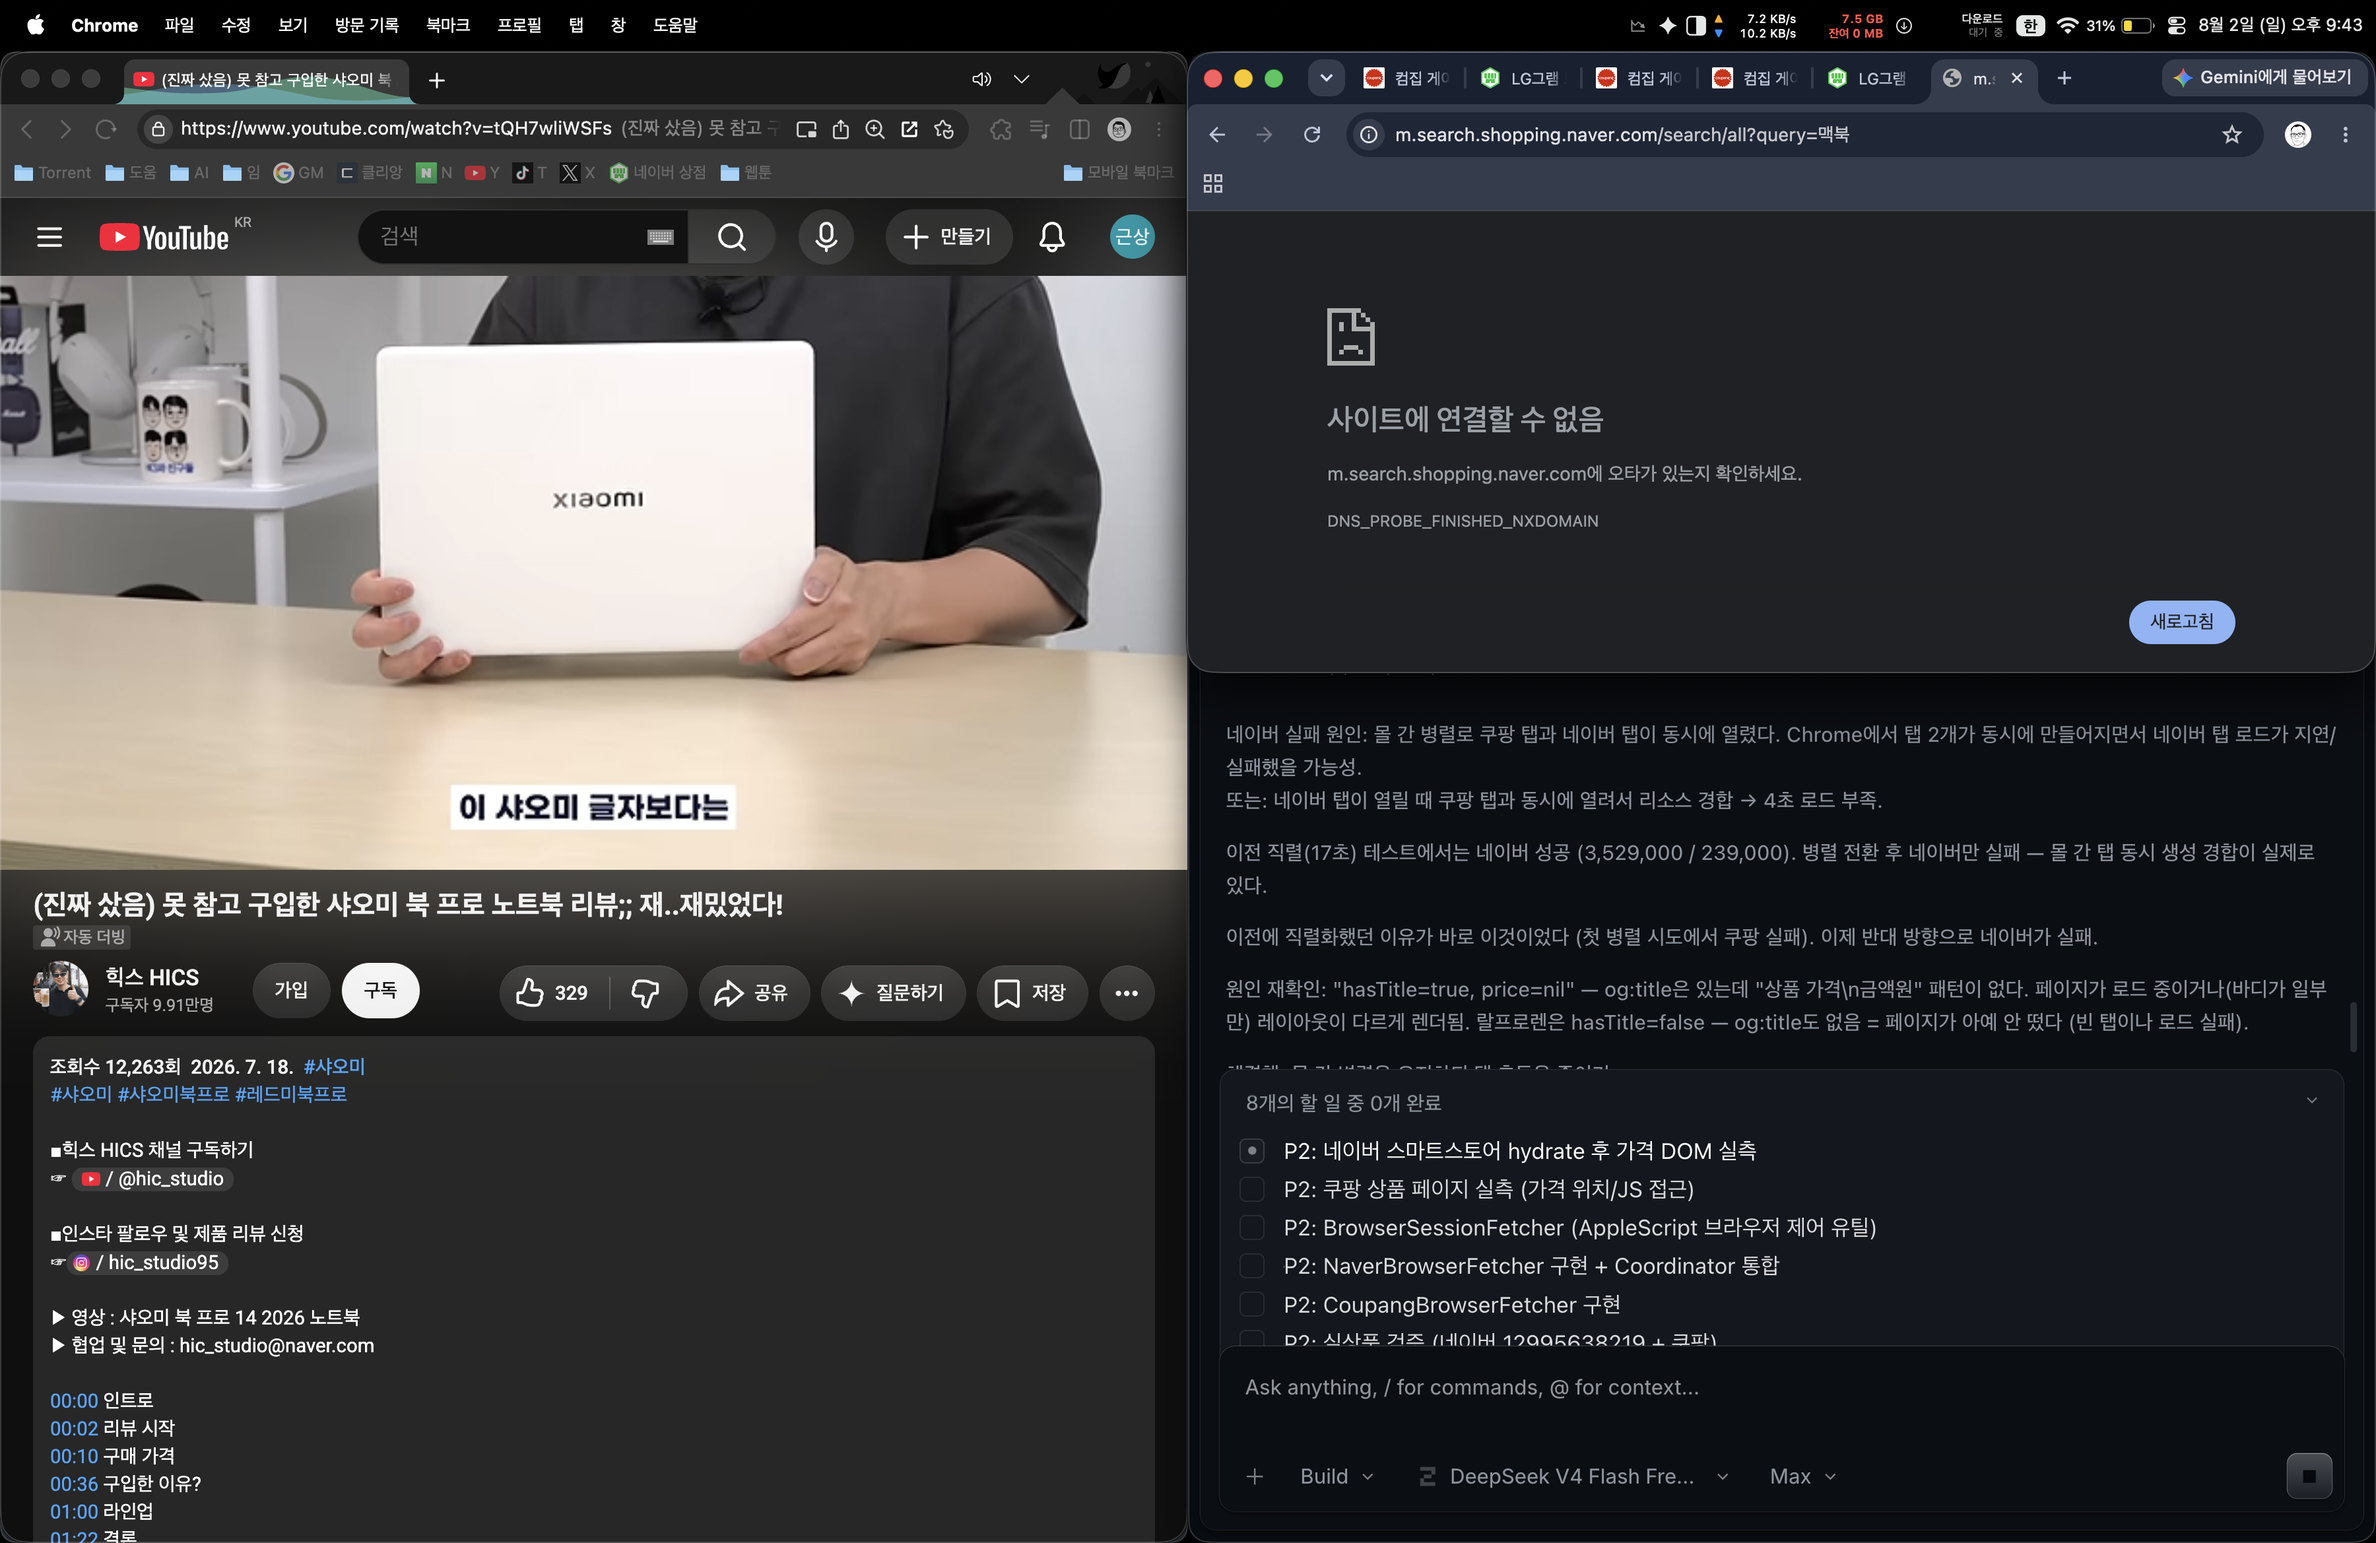
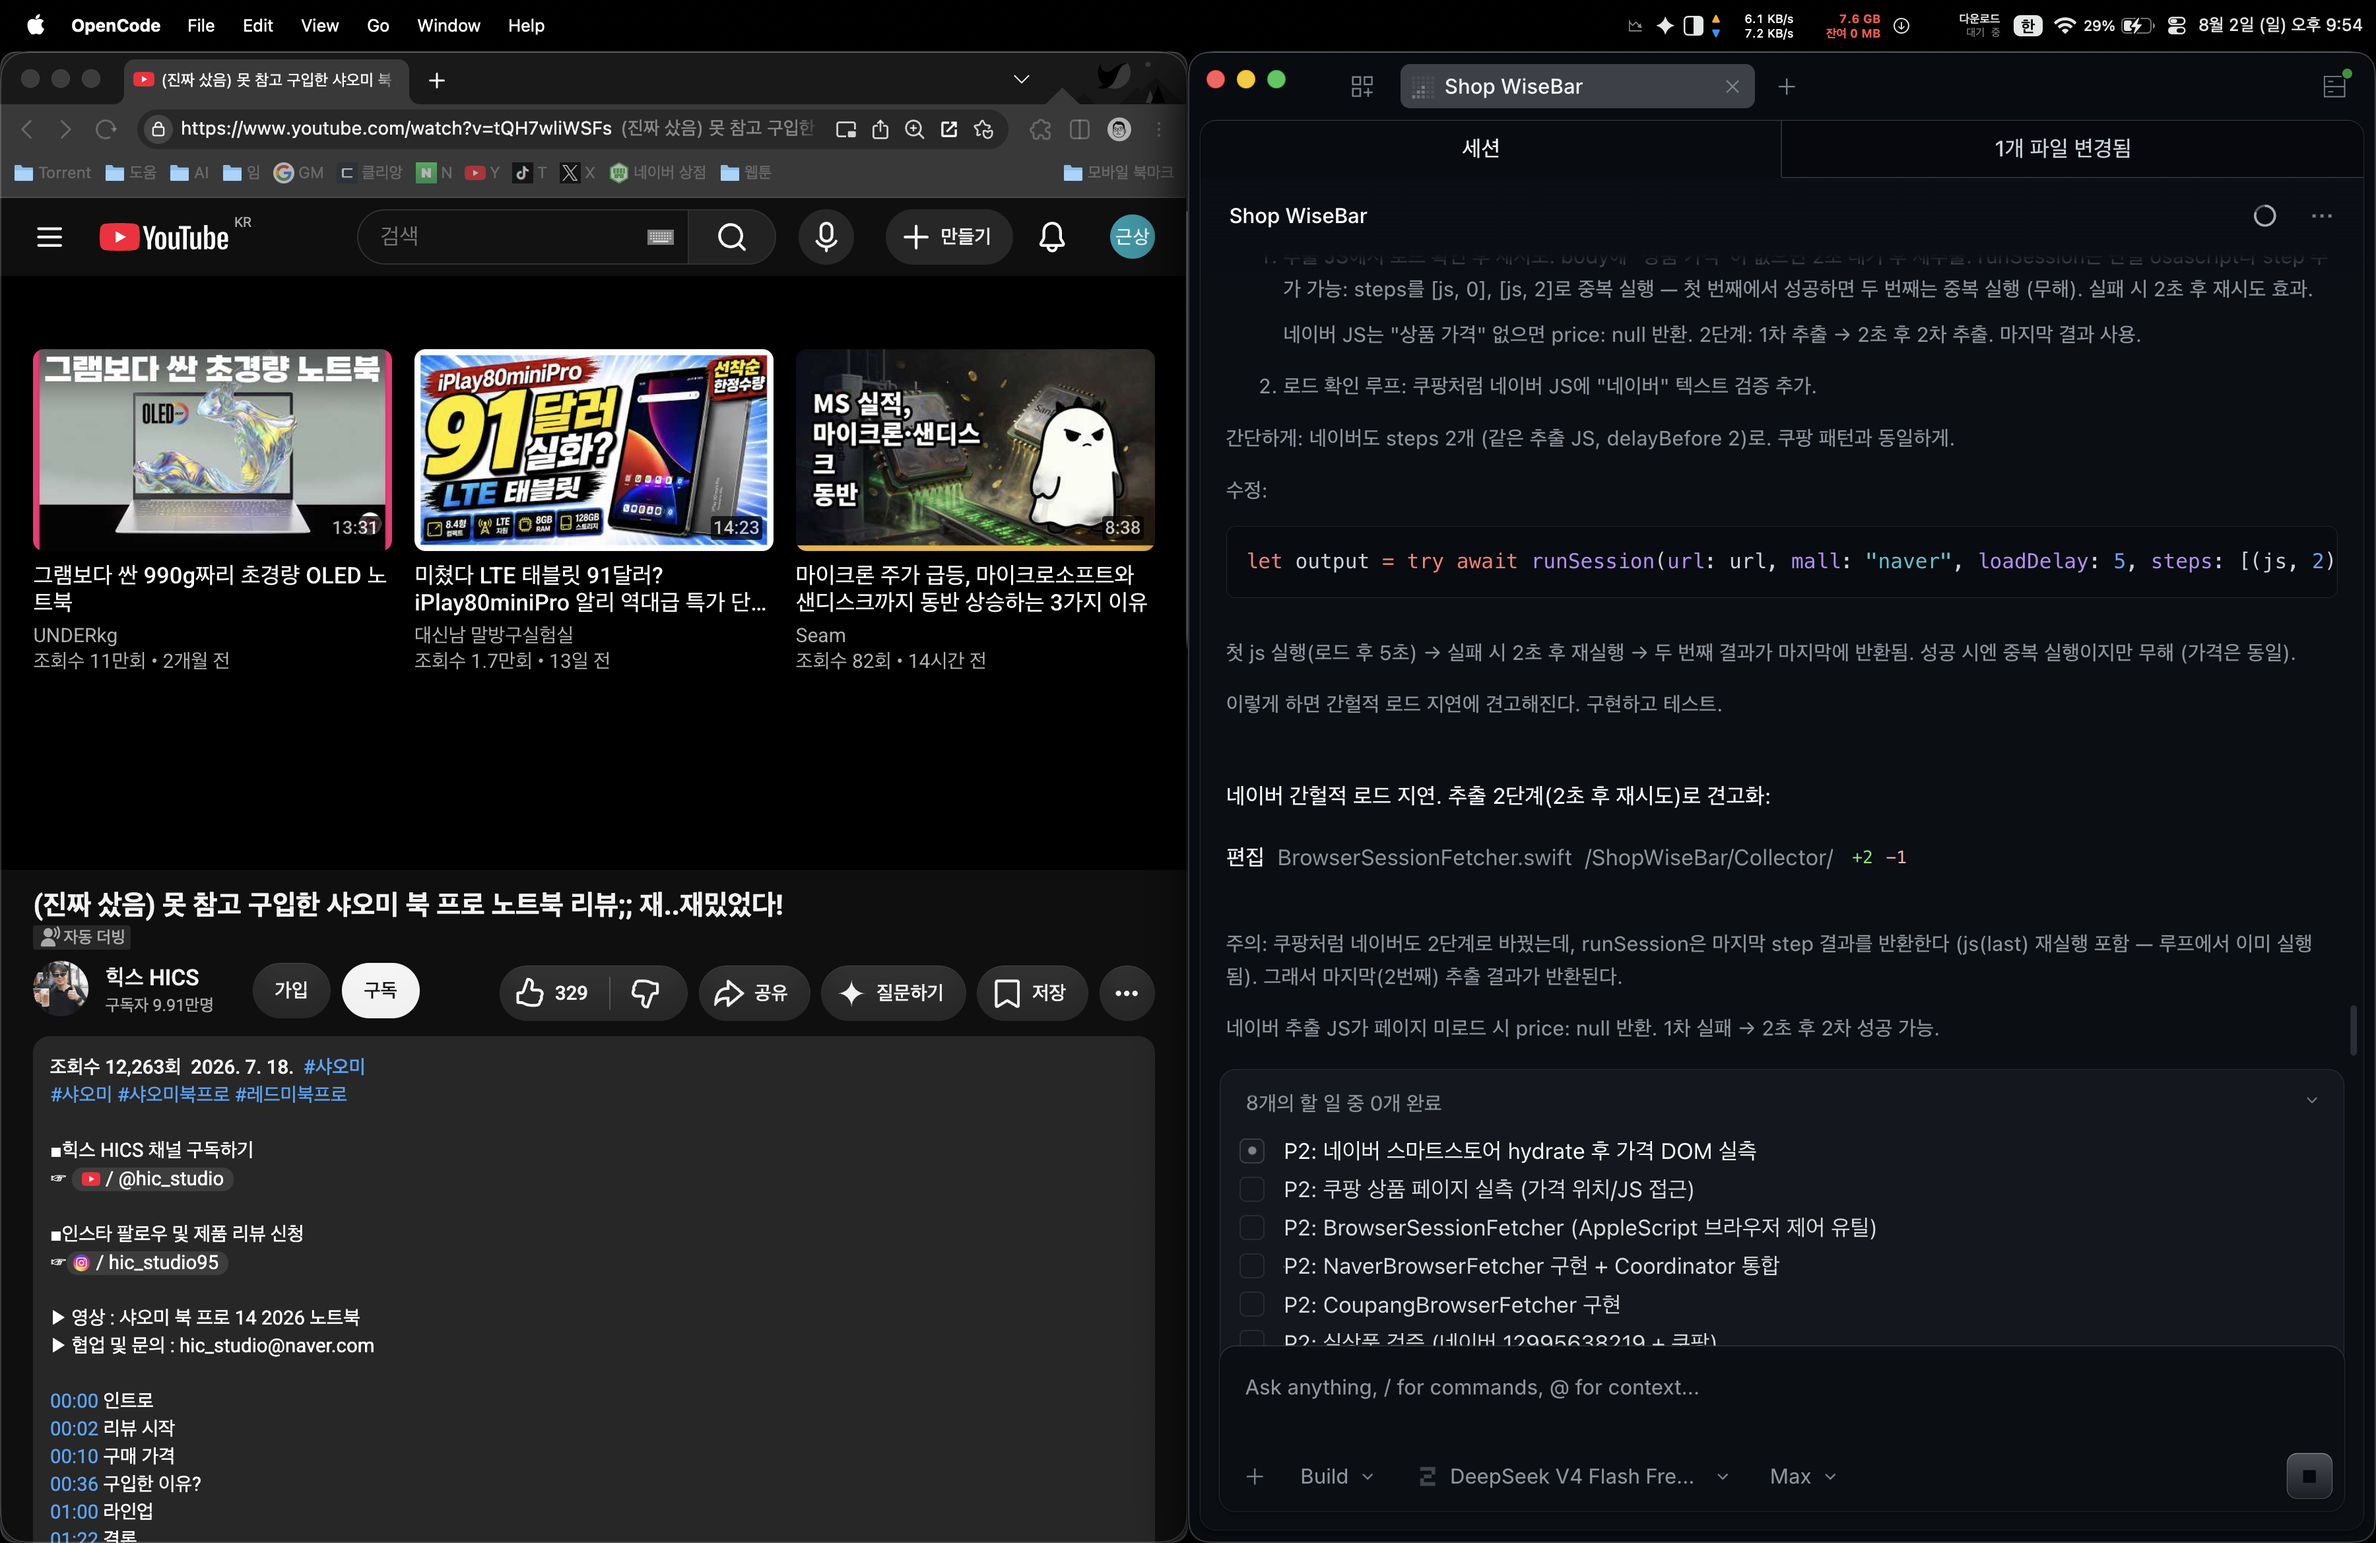
feat(macos): 클립보드 상품 URL 감지 + 갱신 중 감지 스킵 + 네이버 추출 재시도

diff --git a/ShopWiseBar/Collector/BrowserMonitor.swift b/ShopWiseBar/Collector/BrowserMonitor.swift
@@ -2,6 +2,7 @@
 // Chrome/Whale 활성 탭 URL을 주기 폴링 → 지원 상품 페이지면 추적 제안
 // 로그는 상태 변경(감지/해제) 시에만 — AGENTS.md 11.2 준수 (폴링 로깅 금지)
 // PLATFORM: macos
+import AppKit
 import Foundation
 
 @MainActor
@@ -11,6 +12,7 @@ final class BrowserMonitor {
     private let pollInterval: TimeInterval = 3
     private var task: Task<Void, Never>?
     private var lastURL: String?
+    private var lastClipboardURL: String?
 
     private init() {}
 
@@ -33,21 +35,39 @@ final class BrowserMonitor {
     // MARK: - 폴링
 
     private func pollOnce() async {
+        // 갱신 중 브라우저 세션이 Chrome 탭을 만들고 닫음 — 자기 탭 감지 방지
+        if RefreshScheduler.shared.isRunning { return }
+
         let browser = SettingsStore.shared.browserName
-        guard browser != "Safari" else { return } // Safari는 AppleScript JS 설정 필요 — 추후 지원
+        if browser != "Safari" {
+            let url = await activeTabURL(browser: browser)
+            if let url {
+                if url != lastURL {
+                    lastURL = url
+                    updateSuggestion(from: url, source: "browser")
+                }
+                if MallParser.parse(url) != nil {
+                    return // 브라우저가 상품 페이지 중 — 클립보드 제안 무시
+                }
+            }
+        }
 
-        let url = await activeTabURL(browser: browser)
-        guard let url else { return }
-        guard url != lastURL else { return }
+        // 브라우저가 비상품 페이지/미지원일 때 클립보드 감지 (P3)
+        let clipboard = NSPasteboard.general.string(forType: .string) ?? ""
+        if !clipboard.isEmpty && clipboard != lastClipboardURL {
+            lastClipboardURL = clipboard
+            updateSuggestion(from: clipboard, source: "clipboard")
+        }
+    }
 
-        lastURL = url
-        if MallParser.parse(url) != nil {
-            PopoverState.shared.suggestedURL = url
+    private func updateSuggestion(from text: String, source: String) {
+        if MallParser.parse(text) != nil {
+            PopoverState.shared.suggestedURL = text
             DebugLogger.shared.push(
                 level: .INFO,
                 category: "MONITOR",
                 message: "상품 페이지 감지",
-                meta: ["browser": browser, "url": url]
+                meta: ["source": source, "url": text]
             )
         } else {
             PopoverState.shared.clearSuggestion()

diff --git a/ShopWiseBar/Collector/BrowserSessionFetcher.swift b/ShopWiseBar/Collector/BrowserSessionFetcher.swift
@@ -37,7 +37,8 @@ final class BrowserSessionFetcher {
           return JSON.stringify({price: m1 ? m1[1] : null, title: ogt ? ogt.content : null, image: ogi ? ogi.content : null});
         })()
         """
-        let output = try await runSession(url: url, mall: "naver", loadDelay: 5, steps: [(js, 0)])
+        // 간헐적 로드 지연 대비: 동일 추출 JS를 2초 간격 2회 (첫 실패 시 재시도 효과)
+        let output = try await runSession(url: url, mall: "naver", loadDelay: 5, steps: [(js, 2), (js, 0)])
         return try parse(output)
     }
 
